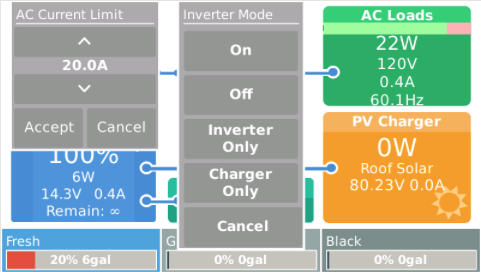
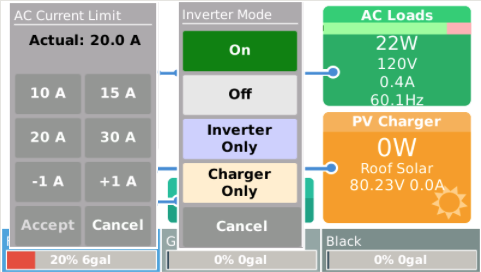
added current limit presets; add colors to inverter mode buttons

diff --git a/FileSets/AcCurrentLimitPopUp.qml b/FileSets/AcCurrentLimitPopUp.qml
@@ -1,0 +1,272 @@
+////// popup for setting AC input current limit
+// previously a "spinner" was used to select a new value
+// the spinner functionality is retained
+// with the addition of preset buttons for 4 user-specified currents
+// preset values can be set via dbus-spy or from the GuiMods setup script
+
+import QtQuick 1.1
+import "utils.js" as Utils
+import com.victron.velib 1.0
+
+Tile {
+	id: root
+
+    property bool valid: vItem.value !== undefined
+    property alias bind: vItem.bind
+	property int fontPixelSize: 18
+	property bool expanded: false // If the tile is 'expanded', additional touch buttons are shown
+	property color buttonColor
+	property alias containsMouse: mouseArea.containsMouse
+    property real actualCurrentLimit: 0
+    property real newCurrentLimit: 0
+
+    VBusItem
+    {
+        id: acLimitPreset1Item
+        bind: Utils.path("com.victronenergy.settings", "/Settings/InverterLimits/AcCurrentLimit/Preset1")
+    }
+    property real acLimitPreset1: acLimitPreset1Item.valid ? acLimitPreset1Item.value : 0
+    VBusItem
+    {
+        id: acLimitPreset2Item
+        bind: Utils.path("com.victronenergy.settings", "/Settings/InverterLimits/AcCurrentLimit/Preset2")
+    }
+    property real acLimitPreset2: acLimitPreset2Item.valid ? acLimitPreset2Item.value : 0
+    VBusItem
+    {
+        id: acLimitPreset3Item
+        bind: Utils.path("com.victronenergy.settings", "/Settings/InverterLimits/AcCurrentLimit/Preset3")
+    }
+    property real acLimitPreset3: acLimitPreset3Item.valid ? acLimitPreset3Item.value : 0
+    VBusItem
+    {
+        id: acLimitPreset4Item
+        bind: Utils.path("com.victronenergy.settings", "/Settings/InverterLimits/AcCurrentLimit/Preset4")
+    }
+    property real acLimitPreset4: acLimitPreset4Item.valid ? acLimitPreset4Item.value : 0
+
+	height: contentHeight + 2
+	editable: true
+
+    Component.onCompleted: getActualCurrent ()
+
+	Behavior on height {
+		PropertyAnimation {
+			duration: 150
+		}
+	}
+
+	signal accepted()
+
+	VBusItem {
+		id: vItem
+        onValueChanged: getActualCurrent ()
+        onValidChanged: getActualCurrent ()
+	}
+
+	values:
+    [
+		Item { width: 1; height: expanded ?  4 : 0; visible: expanded},
+        // spacer to expand hidden button over actual button of Multi icon
+        TileText
+        {
+            text: " "
+            font.pixelSize: 30
+            visible: !expanded
+        },
+		Column
+        {
+			width: root.width - 8
+			x: 2
+			spacing: 4
+			visible: expanded
+
+            TileText
+            {
+                text: qsTr ("Actual: " + actualCurrentLimit.toFixed(1) + " A")
+                font.bold: true; color: "black"           
+            }
+            TileText
+            {
+                text: qsTr ("New: " + newCurrentLimit.toFixed(1) + " A")
+                font.bold: true; color: "black"
+                opacity: newCurrentLimit !== actualCurrentLimit ? 1 : 0.001
+            }
+            Row
+            {
+                width: (parent.width / 2) - 4
+                spacing: 4
+                Button
+                {
+                    id: preset1button
+                    baseColor: root.buttonColor
+                    pressedColor: root.color
+                    height: 40
+                    width: parent.width
+                    onClicked: setNewValue (acLimitPreset1)
+                    content: TileText
+                            {
+                                text: qsTr(acLimitPreset1 + " A"); font.bold: true;
+                                color: "white"
+                            }
+                }
+                Button
+                {
+                    id: preset2button
+                    baseColor: root.buttonColor
+                    pressedColor: root.color
+                    height: 40
+                    width: parent.width
+                    onClicked: setNewValue (acLimitPreset2)
+                    content: TileText
+                            {
+                                text: qsTr(acLimitPreset2 + " A"); font.bold: true;
+                                color: "white"
+                            }
+                }
+            }
+            Row
+            {
+                width: (parent.width / 2) - 4
+                spacing: 4
+                Button
+                {
+                    id: preset3button
+                    baseColor: root.buttonColor
+                    pressedColor: root.color
+                    height: 40
+                    width: parent.width
+                    onClicked: setNewValue (acLimitPreset3)
+                    content: TileText
+                            {
+                                text: qsTr(acLimitPreset3 + " A"); font.bold: true;
+                                color: "white"
+                            }
+                }
+                Button
+                {
+                    id: preset4button
+                    baseColor: root.buttonColor
+                    pressedColor: root.color
+                    height: 40
+                    width: parent.width
+                    onClicked: setNewValue (acLimitPreset4)
+                    content: TileText
+                            {
+                                text: qsTr(acLimitPreset4 + " A"); font.bold: true;
+                                color: "white"
+                            }
+                }
+            }
+            Row
+            {
+                width: (parent.width / 2) - 4
+                spacing: 4
+                Button
+                {
+                    id: trimMinus
+                    baseColor: root.buttonColor
+                    pressedColor: root.color
+                    height: 40
+                    width: parent.width
+                    enablePressAndHold: true
+                    onClicked: trimNewValue (-1)
+                    content: TileText
+                            {
+                                text: qsTr("-1 A"); font.bold: true;
+                                color: "white"
+                            }
+                }
+                Button
+                {
+                    id: trimPlus
+                    baseColor: root.buttonColor
+                    pressedColor: root.color
+                    height: 40
+                    width: parent.width
+                    enablePressAndHold: true
+                    onClicked: trimNewValue (+1)
+                    content: TileText
+                            {
+                                text: qsTr("+1 A"); font.bold: true;
+                                color: "white"
+                            }
+                }
+            }
+            Row
+            {
+                width: (parent.width / 2) - 4
+                spacing: 4
+                Button
+                {
+                    id: acceptButton
+                    baseColor: root.buttonColor
+                    pressedColor: root.color
+                    height: 40
+                    width: parent.width
+                    onClicked: accept()
+                    content: TileText { text: qsTr ("Accept");
+                            font.bold: true; color: newCurrentLimit !== actualCurrentLimit ? "white" : "#d9d9d9" }
+                }
+                Button
+                {
+                    id: cancelButton
+                    baseColor: root.buttonColor
+                    pressedColor: root.color
+                    height: 40
+                    width: parent.width
+                    onClicked: cancel()
+                    content: TileText { text: qsTr ("Cancel");
+                            font.bold: true; color: "white" }
+                }
+            }
+		}
+	]
+
+	function setNewValue (newValue)
+	{
+		if (!root.valid || root.readOnly)
+			return
+
+		newCurrentLimit = newValue
+	}
+
+    function trimNewValue (trimValue)
+    {
+        if (!root.valid || root.readOnly)
+            return
+
+        newCurrentLimit += trimValue
+        if (newCurrentLimit < 0)
+            newCurrentLimit = 0
+    }
+
+	function cancel ()
+	{
+        newCurrentLimit = actualCurrentLimit
+		root.expanded = false
+	}
+ 
+    function accept ()
+    {
+        if (!root.valid || root.readOnly)
+            return
+
+        vItem.setValue (newCurrentLimit)
+        expanded = false
+        accepted()
+    }
+    
+    function getActualCurrent ()
+    {
+        actualCurrentLimit = vItem.valid ? vItem.value : 0
+        newCurrentLimit = actualCurrentLimit
+    }
+    
+	MouseArea {
+		id: mouseArea
+		anchors.fill: parent
+		enabled: !expanded
+		onClicked: { root.expanded = true }
+	}
+}

diff --git a/FileSets/InverterModePopUp.qml b/FileSets/InverterModePopUp.qml
@@ -54,42 +54,58 @@ Tile {
 			Button
             {
 				id: onButton
-				baseColor: inverterMode === 3 ? "black" : root.buttonColor
+				baseColor: inverterMode === 3 ? "green" : "#e6ffe6"
 				pressedColor: root.color
 				height: 40
 				width: parent.width - 6
 				onClicked: changeMode(3)
-				content: TileText { text: qsTr("On"); font.bold: true }
+				content: TileText
+                        {
+                            text: qsTr("On"); font.bold: true;
+                            color: inverterMode === 3 ? "white" : "black"
+                        }
 			}
             Button
             {
                 id: offButton
-                baseColor: inverterMode === 4 ? "black" : root.buttonColor
+                baseColor: inverterMode === 4 ? "black" : "#e6e6e6"
                 pressedColor: root.color
                 height: 40
                 width: parent.width - 6
                 onClicked: changeMode(4)
-                content: TileText { text: qsTr("Off"); font.bold: true }
+                content: TileText
+                        {
+                            text: qsTr("Off"); font.bold: true;
+                            color: inverterMode === 4 ? "white" : "black"
+                        }
             }
             Button
             {
                 id: invertOnlyButton
-                baseColor: inverterMode === 2 ? "black" : root.buttonColor
+                baseColor: inverterMode === 2 ? "blue" : "#ccccff"
                 pressedColor: root.color
                 height: 40
                 width: parent.width - 6
                 onClicked: changeMode(2)
-                content: TileText { text: qsTr("Inverter\nOnly"); font.bold: true }
+                content: TileText
+                        {
+                            text: qsTr("Inverter\nOnly"); font.bold: true;
+                            color: inverterMode === 2 ? "white" : "black"
+                        }
             }
             Button 
             {
                 id: chargeOnlyButton
-                baseColor: inverterMode === 1 ? "black" : root.buttonColor
+                baseColor: inverterMode === 1 ? "orange" : "#ffedcc"
                 pressedColor: root.color
                 height: 40
                 width: parent.width - 6
                 onClicked: changeMode(1)
-                content: TileText { text: qsTr("Charger\nOnly"); font.bold: true }
+                content: TileText
+                        {
+                            text: qsTr("Charger\nOnly"); font.bold: true;
+                            color: inverterMode === 1 ? "white" : "black"
+                        }
             }
 			Button
             {
@@ -99,7 +115,7 @@ Tile {
 				height: 40
 				width: parent.width - 2
 				onClicked: cancel()
-                content: TileText { text: qsTr("Cancel"); font.bold: true }
+                content: TileText { text: qsTr("Cancel"); font.bold: true; color: "white" }
 			}
 		}
 	]

diff --git a/FileSets/v2.40/OverviewHub.qml b/FileSets/v2.40/OverviewHub.qml
@@ -540,29 +540,26 @@ OverviewPage {
     MouseArea {
         anchors.fill: parent
         enabled: parent.active
-        onPressed: mouse.accepted = acCurrentButton.expanded || inverterModePopUp.expanded
-        onClicked: { acCurrentButton.cancel(); inverterModePopUp.cancel() }
+        onPressed: mouse.accepted = acCurrentLimitPopUp.expanded || inverterModePopUp.expanded
+        onClicked: { acCurrentLimitPopUp.cancel(); inverterModePopUp.cancel() }
     }
 ////// popup current limit box over the AC Input tile
-    TileSpinBox {
+    AcCurrentLimitPopUp {
         title: qsTr("AC Current Limit")
-        id: acCurrentButton
+        id: acCurrentLimitPopUp
         // hide button until it is expanded
         // 0 opacity blocks clicks so use a small value instead (0.001 appears to be smallest that works)
         opacity: expanded ? 1 : 0.001
         anchors.top: parent.top; anchors.topMargin: expanded ? 0 : acInBox.height * 2 /3
         anchors.left: acInBox.left
-        isCurrentItem: false // don't show the edit icon
-        focus: true
-
-        bind: Utils.path(vebusPrefix, "/Ac/ActiveIn/CurrentLimit")
-        color: containsMouse && !editMode ? "#d3d3d3" : "#A8A8A8"
         width: show ? acInBox.width : 0
+
+        color: containsMouse && !editMode ? "#d3d3d3" : "#A8A8A8"
         fontPixelSize: 14
-        unit: "A"
         readOnly: currentLimitIsAdjustable.value !== 1 || numberOfMultis > 1
         buttonColor: "#979797"
 
+        bind: Utils.path(vebusPrefix, "/Ac/ActiveIn/CurrentLimit")
         VBusItem { id: currentLimitIsAdjustable; bind: Utils.path(vebusPrefix, "/Ac/ActiveIn/CurrentLimitIsAdjustable") }
     }
     
